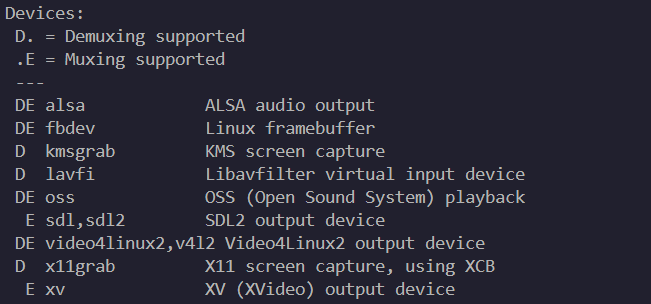
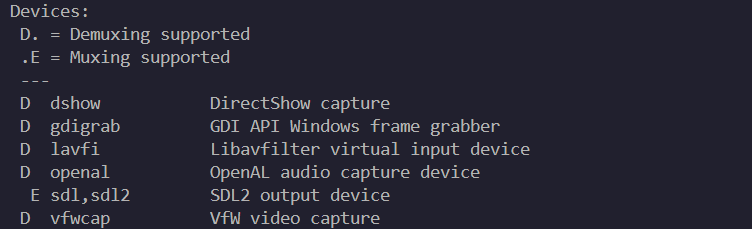
笔记更新，暂时分离音视频采集部分

diff --git a/FFmpeg.md b/FFmpeg.md
@@ -2019,34 +2019,24 @@ ffmpeg -hide_banner -devices
 ```
 <img src="imagesForNotes/设备列表.png">
 
-1. 视频捕获
-使用 `video4linux2`,`v4l2` 设备
-`video4linux2`,`v4l2` 设备用于从支持V4L2的设备（如USB摄像头）捕获视频。
-
-2. 音频捕获
-使用 `alsa` 设备
-`alsa` 设备用于从ALSA音频设备捕获音频。
-
-3. 屏幕捕获
-使用 `x11grab` 设备
-`x11grab` 设备用于捕获X11窗口或屏幕的内容。
-
-- 查看v4l2支持的参数：
+- 查看dshow支持的参数：
 ```bash
-ffmpeg -h demuxer=x11grab
+ffmpeg -h demuxer=dshow
 ```
 
-- 查看v4l2支持的设备：
+- 查看dshow支持的设备：
 ```bash
-ffmpeg -f v4l2 -list_devices true -i ""
+ffmpeg -f dshow -list_devices true -i dummy
 ```
+一般是`Integrated Camera`，这是本地摄像头
 
 - 采集摄像头画面：
 ```bash
-ffmpeg -f v4l2 -framerate 30 -video_size 640x480 -i 0 out.yuv
+ffmpeg -f dshow -i video="Integrated Camera" ./video/output.mp4
 ```
 
 播放摄像头采集画面：
 ```bash
-ffplay out.yuv -s 640x480 -pix_fmt yuv420p
+ffplay output.mp4
 ```
+

diff --git a/音视频采集.md b/音视频采集.md
@@ -1,0 +1,28 @@
+# 音视频采集
+## 视频采集命令
+- 查看设备列表：
+```bash
+ffmpeg -hide_banner -devices
+```
+<img src="imagesForNotes/设备列表.png">
+
+- 查看dshow支持的参数：
+```bash
+ffmpeg -h demuxer=dshow
+```
+
+- 查看dshow支持的设备：
+```bash
+ffmpeg -f dshow -list_devices true -i dummy
+```
+一般是`Integrated Camera`，这是本地摄像头
+
+- 采集摄像头画面：
+```bash
+ffmpeg -f dshow -i video="Integrated Camera" ./video/output.mp4
+```
+
+播放摄像头采集画面：
+```bash
+ffplay output.mp4
+```
